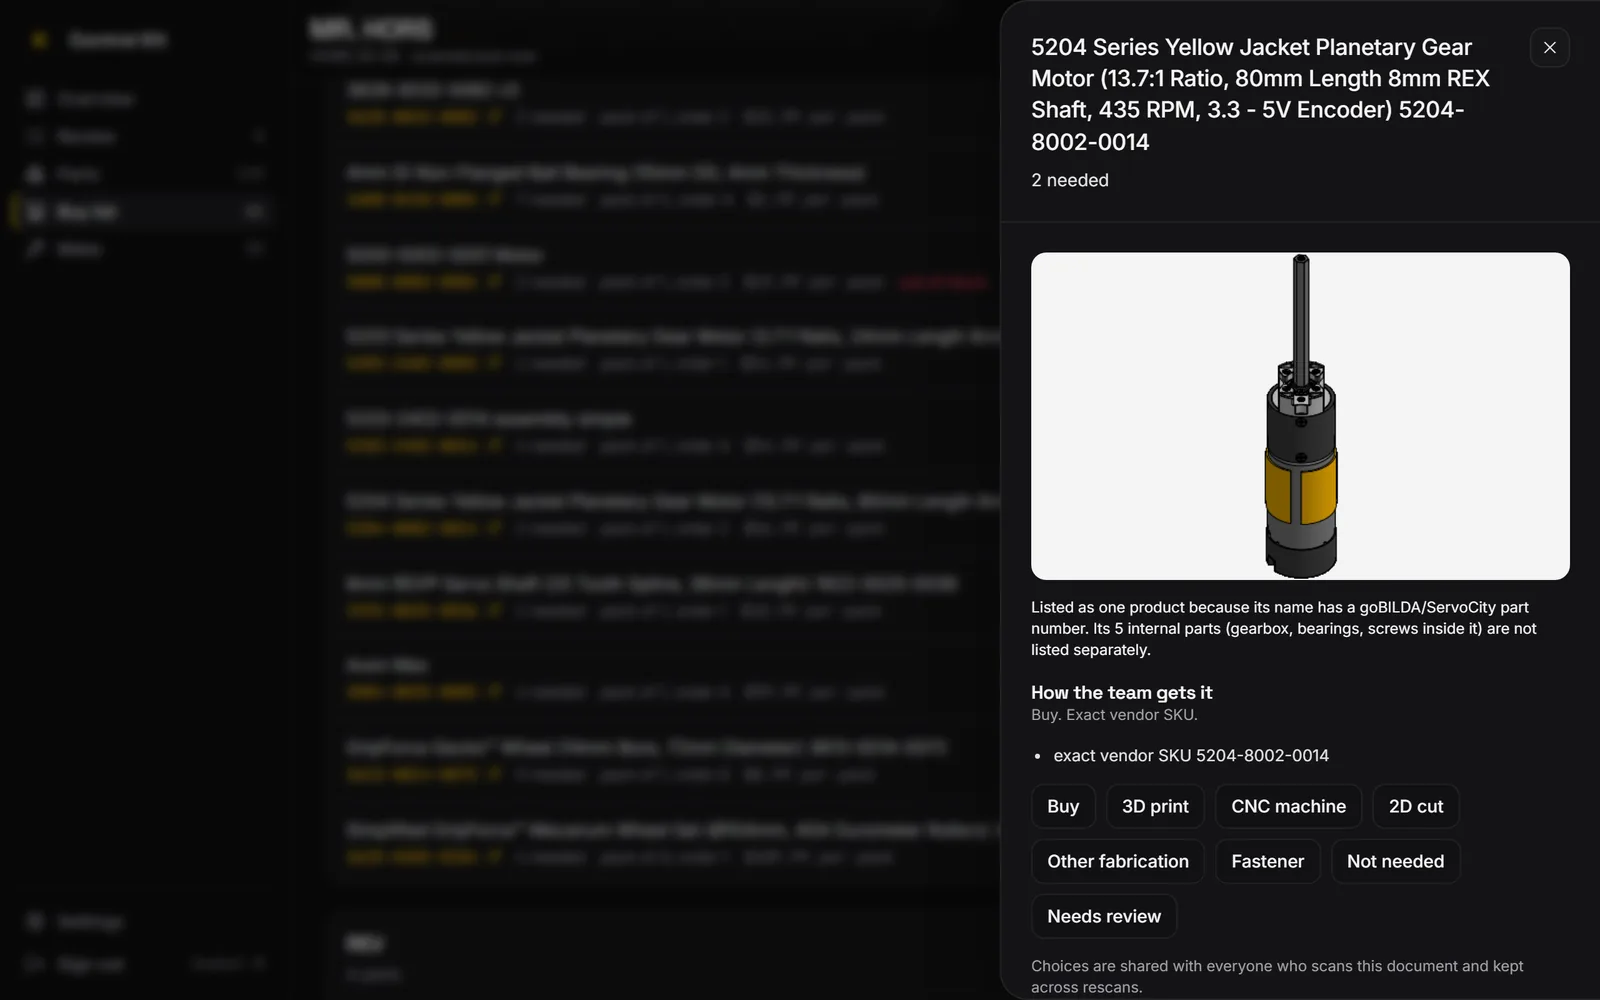
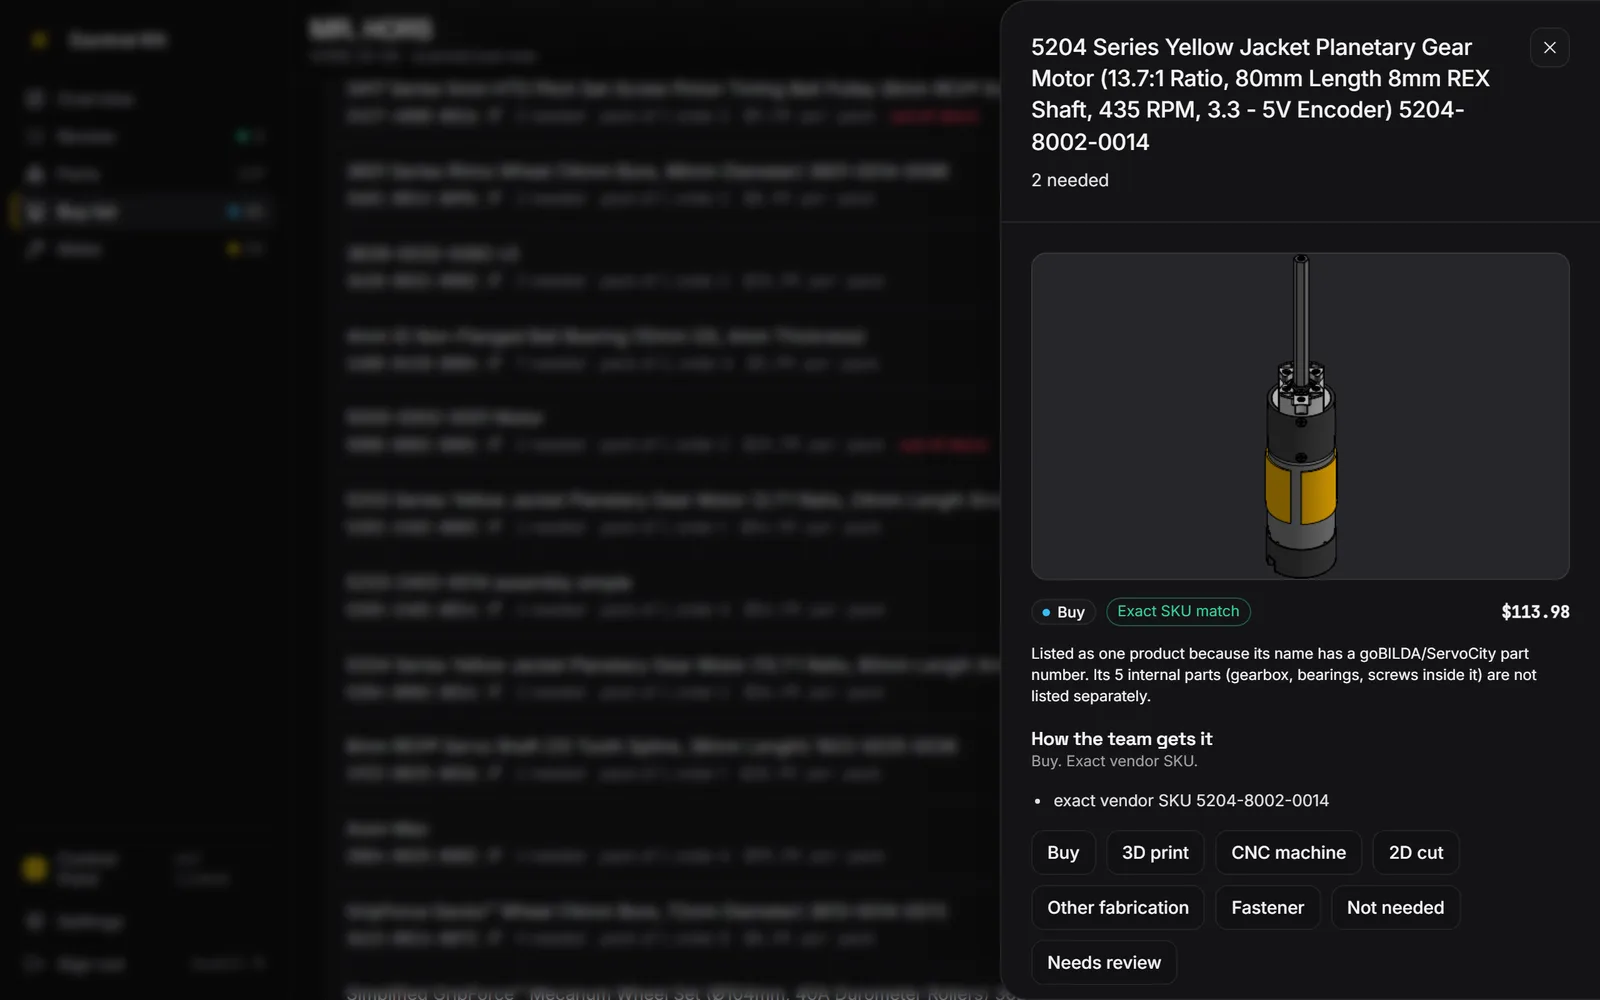
Fit the robot picture on a dark stage; recapture the listing in the new UI
The status card's Onshape picture was a grid item, so height: 100% did not
apply and the image overflowed its frame and was cropped. It is now a block
box that fits the whole robot. Onshape's shaded views are transparent, so
every picture sits on --ck-stage (#26262b) instead of light grey.

The App Store kit, install page, and share image are recaptured in the
refreshed UI, and the owner's capture of HORS scanning in Onshape is the
install page's hero and the listing's scan screenshot.

diff --git a/apps/web/src/styles/theme.css b/apps/web/src/styles/theme.css
@@ -14,6 +14,8 @@
   --ck-card: #111113;
   --ck-raised: #141416;
   --ck-muted: #18181b;
+  /* Behind Onshape pictures (transparent PNGs): light enough that black plates and edges still read. */
+  --ck-stage: #26262b;
   --ck-text: #f4f4f5;
   --ck-text-muted: #a1a1aa;
   --ck-line: #ffffff14;
@@ -236,9 +238,10 @@ button.row:hover { background: var(--ck-raised); }
 
 /* Overview status card: one bar of every unique part by how it is handled, then the two readiness meters. */
 .status { padding: 16px; display: grid; gap: 12px; }
-.hero-picture { margin: -16px -16px 0; height: 180px; border-radius: 14px 14px 0 0; overflow: hidden; background: #f4f4f5; display: grid; place-items: center; }
-.hero-picture img { width: 100%; height: 100%; object-fit: contain; }
-@media (max-width: 520px) { .hero-picture { height: 140px; } }
+.hero-picture { margin: -16px -16px 0; height: 220px; padding: 12px; border-radius: 14px 14px 0 0; overflow: hidden; background: var(--ck-stage); border-bottom: 1px solid var(--ck-line); }
+/* Block, not grid: a grid row has no definite height, so the image grew past the frame and was cut off. */
+.hero-picture img { display: block; width: 100%; height: 100%; object-fit: contain; }
+@media (max-width: 520px) { .hero-picture { height: 170px; } }
 .status-head { display: flex; flex-wrap: wrap; align-items: baseline; justify-content: space-between; gap: 4px 12px; }
 .status-head h2 { font-size: 1.25rem; }
 .share-bar { display: flex; gap: 2px; height: 10px; border-radius: 999px; overflow: hidden; background: var(--ck-muted); }
@@ -306,7 +309,7 @@ button.row:hover { background: var(--ck-raised); }
 .move-parts li { display: grid; grid-template-columns: 36px minmax(0, 1fr) auto; align-items: center; gap: 10px; font-size: 13px; }
 .move-part-name { overflow: hidden; text-overflow: ellipsis; white-space: nowrap; }
 .mini-thumb { width: 36px; height: 36px; border-radius: 8px; background: var(--ck-muted); overflow: hidden; display: grid; place-items: center; }
-.mini-thumb:has(img) { background: #f4f4f5; }
+.mini-thumb:has(img) { background: var(--ck-stage); }
 .mini-thumb img { width: 100%; height: 100%; object-fit: contain; }
 .done-strip { list-style: none; margin: 0; padding: 10px 16px; display: flex; flex-wrap: wrap; gap: 6px 16px; border-top: 1px solid var(--ck-line); font-size: 12.5px; color: var(--ck-done); }
 .done-strip li { display: inline-flex; align-items: center; gap: 6px; }
@@ -460,15 +463,15 @@ button.row:hover { background: var(--ck-raised); }
   .row, .step { padding: 10px 12px; }
 }
 
-.part-picture { margin: 0; display: grid; place-items: center; min-height: 180px; border: 1px solid var(--border); border-radius: 12px; background: #f4f4f5; overflow: hidden; }
+.part-picture { margin: 0; display: grid; place-items: center; min-height: 180px; border: 1px solid var(--border); border-radius: 12px; background: var(--ck-stage); overflow: hidden; }
 .part-picture img { display: block; width: 100%; height: auto; max-height: 260px; object-fit: contain; }
-.part-picture .muted { color: #52525b; padding: 12px; text-align: center; }
+.part-picture .muted { color: var(--ck-text-muted); padding: 12px; text-align: center; }
 
-.thumb { margin: 0; flex: none; display: grid; place-items: center; background: #f4f4f5; border-radius: 8px; overflow: hidden; }
+.thumb { margin: 0; flex: none; display: grid; place-items: center; background: var(--ck-stage); border-radius: 8px; overflow: hidden; }
 .thumb.thumb-row { display: inline-grid; width: 32px; height: 32px; margin-right: 8px; vertical-align: middle; }
 .thumb.thumb-large { width: 100%; max-width: 240px; padding: 8px; gap: 6px; }
 .thumb img { max-width: 100%; max-height: 100%; object-fit: contain; }
-.thumb.thumb-large figcaption { color: #52525b; }
+.thumb.thumb-large figcaption { color: var(--ck-text-muted); }
 
 .row.focused { background: color-mix(in srgb, var(--ck-volt) 8%, transparent); box-shadow: inset 3px 0 0 var(--ck-volt); }
 .keys-hint { padding: 8px 16px 0; }

diff --git a/apps/web/src/app/Landing.tsx b/apps/web/src/app/Landing.tsx
@@ -11,7 +11,7 @@ const listed = false;
 const supportUrl = 'https://github.com/ZOGWORK/control-kit/issues';
 
 const features: Array<{ icon: ReactNode; title: string; text: string; image: string; alt: string }> = [
-  { icon: <Boxes aria-hidden />, title: 'Every part, sorted', image: 'overview', alt: 'Overview of a scanned FTC robot: 119 parts, 61 to buy, 55 to make, none waiting for review, $1768.05 priced so far',
+  { icon: <Boxes aria-hidden />, title: 'Every part, sorted', image: 'overview', alt: 'Overview of a scanned FTC robot: its Onshape picture, 119 unique parts split into 61 to buy, 55 to make, and 3 fasteners, $1,768.05 priced so far',
     text: "Control Kit reads the assembly and Onshape's bill of materials, then sorts every part into buy, make, or fastener. Vendor part numbers, standard hardware, linked libraries, and team tags such as \"(3D PRINT)\" decide most parts, so few are left for you." },
   { icon: <ShoppingCart aria-hidden />, title: 'A buy list with real prices', image: 'buy-list', alt: 'Buy list grouped by vendor, with SKUs, quantities, packs to order, prices, and stock',
     text: 'Parts are matched by SKU against the goBILDA, REV, ServoCity, AndyMark, and Pitsco catalogs. Orders round up to whole packs, and a part is priced only when its match, pack size, and price are all verified, so the total never looks complete when it isn\'t.' },
@@ -32,13 +32,13 @@ export function Landing() {
         <a className="landing-link" href={appStoreUrl} target="_blank" rel="noopener noreferrer">Onshape App Store</a>
       </div>
       {!listed && <p className="muted small">Control Kit's App Store listing is waiting for Onshape's review. The steps below work once it is listed.</p>}
-      <img className="landing-shot" src="/listing/overview.webp" width={1600} height={1000} alt={features[0].alt} />
+      <img className="landing-shot" src="/listing/in-onshape.webp" width={2000} height={1000} alt="Control Kit scanning the HORS robot in Onshape's right panel, beside the 3D assembly" />
     </header>
 
     <section className="landing-features" aria-label="What Control Kit does">
       {features.map((feature, index) => <article key={feature.title} className={`landing-feature${index % 2 ? ' flip' : ''}`}>
         <div className="landing-copy"><span className="landing-icon">{feature.icon}</span><h2>{feature.title}</h2><p>{feature.text}</p></div>
-        {index > 0 && <img className="landing-shot" src={`/listing/${feature.image}.webp`} width={1600} height={1000} loading="lazy" alt={feature.alt} />}
+        <img className="landing-shot" src={`/listing/${feature.image}.webp`} width={1600} height={1000} loading="lazy" alt={feature.alt} />
       </article>)}
     </section>
 

diff --git a/CLAUDE.md b/CLAUDE.md
@@ -238,6 +238,7 @@ UI refresh (2026-10-26, from the owner's audit "Control Kit — Full UI Audit an
 - **Screens (PR 2).** Every section opens with `SectionHead` (`bits.tsx`): an icon in its colour job and one line on what the list is for. Review becomes a green "Review complete" when empty, and only the highlighted row's likely answer is a primary button. The Buy list summary matches the Overview money card; vendor and make panels carry their colour as a top edge; stock shows as red "out of stock" / orange "low stock" (`StockNote`). The part drawer opens with a status strip (disposition, match, stock, cost). Links are neutral underlined text, since gold means make. Overview adds "Find a part" (`findParts`) and "Since your last scan" (`scanChanges`, compared by part identity, not line key); the replaced scan is kept only in memory (`previous` in `useControlKit`), so a reopened scan shows no comparison.
 - **Control Point UI (PR 3).** `useControlPoint.ts` reads `/api/control-point/*`, opens the link in a popup (Onshape's iframe cannot show Control Point's sign-in) and listens for the Worker's `control-point-linked` / `control-point-link-failed` message from the Worker origin. `ControlPoint.tsx` holds the Overview card: unlinked, a preview of this scan built by `buildControlPointPayload(result, { workspaceId: null })` grouped into Control Point sections, the payoff, Link and "Create a free workspace"; linked, the workspace picker (one workspace preselected but confirmed; none gets create and join links), then "Send full BOM to {workspace}" with the last send. A send attaches the workbook and the STEP ZIP built in this session (`lastStepZip`), or lists STEP under `filesNotIncluded`, and posts the stringified payload unmodified. When the order and build list are complete, the primary action becomes the send, then "View in {workspace}". `workspaceAccent` (`model.ts`) turns the workspace colour into `--ck-volt` and its hover/soft/ink only when it reaches 3:1 on graphite and 4.5:1 under button text; otherwise Control Kit stays volt and Settings says why. The workspace shows in the top bar chip and sidebar. Settings gains a Control Point section (switch, unlink; the team number stays separate). The status card shows the whole assembly from `/api/preview/assembly`. The fixture API stands in for the link routes (`CK_CONTROL_POINT=off|unlinked|linked|none`, `CK_CP_ACCENT`).
 - **Screenshots.** `docs/screenshots/ui-refresh/` holds each PR's verification captures at 380 px (Onshape panel) and 1440 px, taken from the fixture app with the saved HORS scan by an untracked Playwright script.
+- **Pictures and listing (2026-10-26).** Onshape's shaded views are transparent PNGs; every picture (status card, part drawer, thumbnails) now sits on `--ck-stage` (#26262b), dark enough to match the app and light enough for black plates and edges to read. The status card's picture is a block box, not a grid item, so `height: 100%` fits the whole robot instead of overflowing and cropping it. The listing kit, install page, and share image were recaptured in the refreshed UI by untracked scripts (`work/listing-shots.mjs`, `work/feature-graphic.mjs`); `5-scan.png` and the install page's hero (`listing/in-onshape.webp`) are the owner's capture of HORS scanning in Onshape.
 - **Control Point link.** `docs/control-point-link.md` is the contract both repositories build to (account-level grant, workspace picked in Control Kit, idempotency key including the workspace id, workspace `accentColor`).
 
 Control Point link, Worker side (2026-10-26, owner request "build both sides now"; supersedes the M7 and PR 12 live gate):

diff --git a/docs/app-store/listing.md b/docs/app-store/listing.md
@@ -2,7 +2,7 @@
 
 Copy and images for Control Kit's App Store entry. Paste them into Control Kit's store entry in the Onshape Developer Portal, signed in as the app's owner. Onshape reviews the entry before it is public.
 
-Every screenshot is the live app on the HORS assembly (MR. HORS, HORS 25-26) as scanned on 2026-10-26: 119 parts, 61 to buy, 55 to make, none waiting for review, $1,768.05 priced from 50 of 61 buy lines. They were rendered from that scan and the production vendor catalogs at 2560 × 1600 (the panel view at 840 × 1720), so they show exactly what a team sees. Onshape publishes no image sizes for listings; these are large enough to be scaled down.
+Every screenshot is the live app on the HORS assembly (MR. HORS, HORS 25-26) as scanned on 2026-10-26: 119 parts, 61 to buy, 55 to make, none waiting for review, $1,768.05 priced from 50 of 61 buy lines. They were rendered in the refreshed UI (2026-10-26) from that scan and the production vendor catalogs at 2560 × 1600 (the panel view at 840 × 1720), so they show exactly what a team sees. `5-scan.png` is a real capture of Onshape (2000 × 1000) with the panel scanning HORS beside the model. Onshape publishes no image sizes for listings; these are large enough to be scaled down.
 
 ## Name
 
@@ -32,7 +32,7 @@ Control Kit only reads documents; it never edits your CAD. A scan uses about thr
 | `2-buy-list.png` | A buy list matched to vendor SKUs, rounded to whole packs, priced only when verified. |
 | `3-part-details.png` | Each part's picture from Onshape and the evidence behind its decision. |
 | `4-make-list.png` | Parts to print and cut, ready to download as STEP files. |
-| `5-scan.png` | A scan reads the assembly, its bill of materials, and the vendor catalogs in seconds. |
+| `5-scan.png` | Right beside your model in Onshape, a scan reads the assembly, its bill of materials, and the vendor catalogs in seconds. |
 | `6-onshape-panel.png` | The same view in Onshape's right panel, beside your assembly. |
 
 Feature graphic: `feature-graphic.png` (2400 × 1260; also served at 1200 × 630 as the site's share image).
